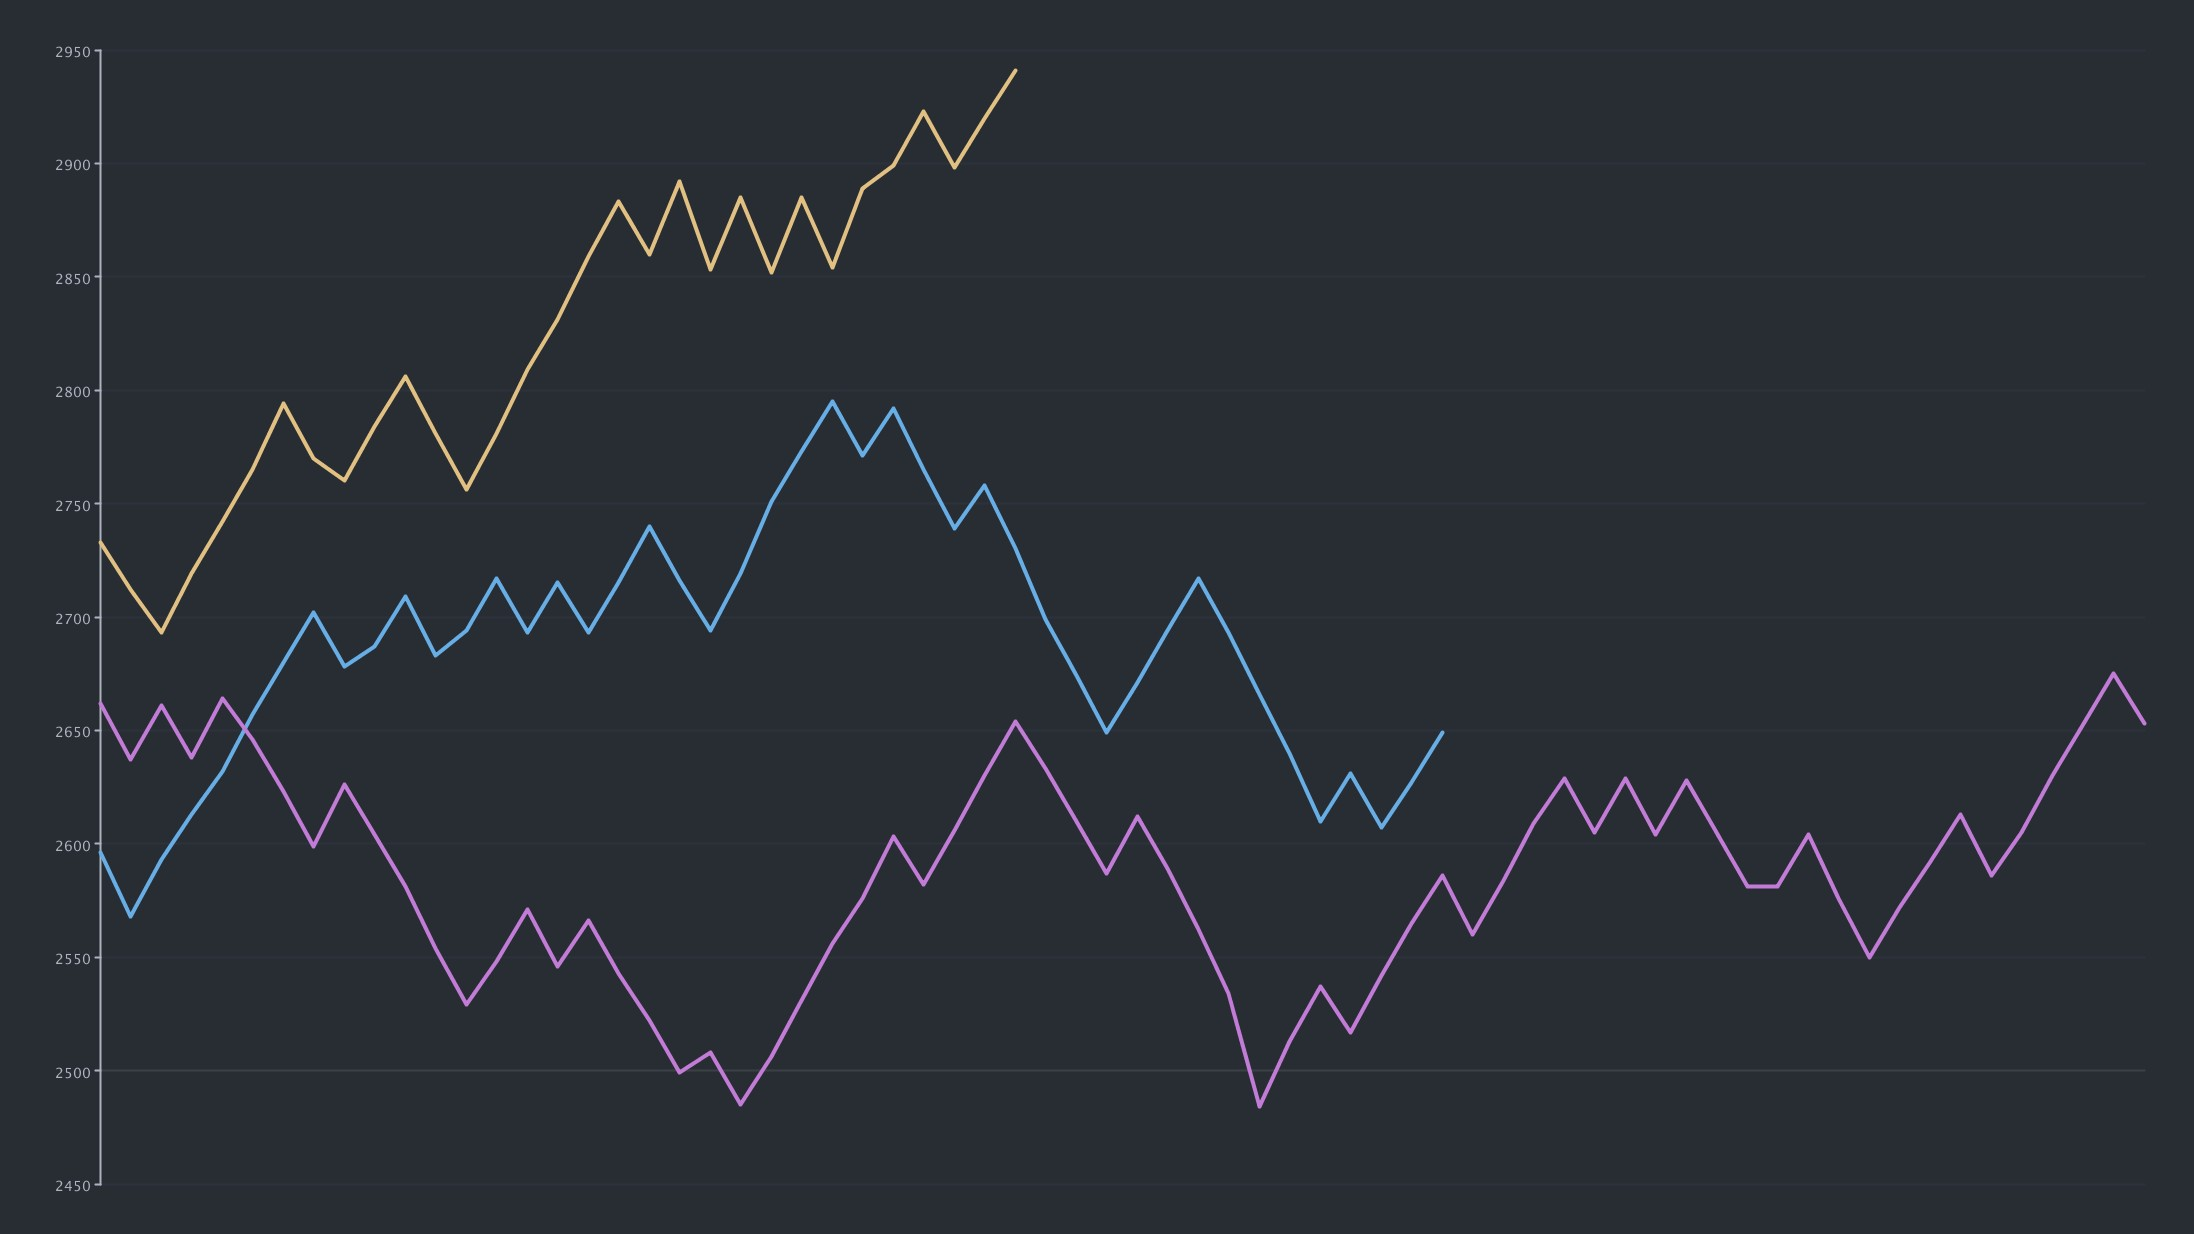
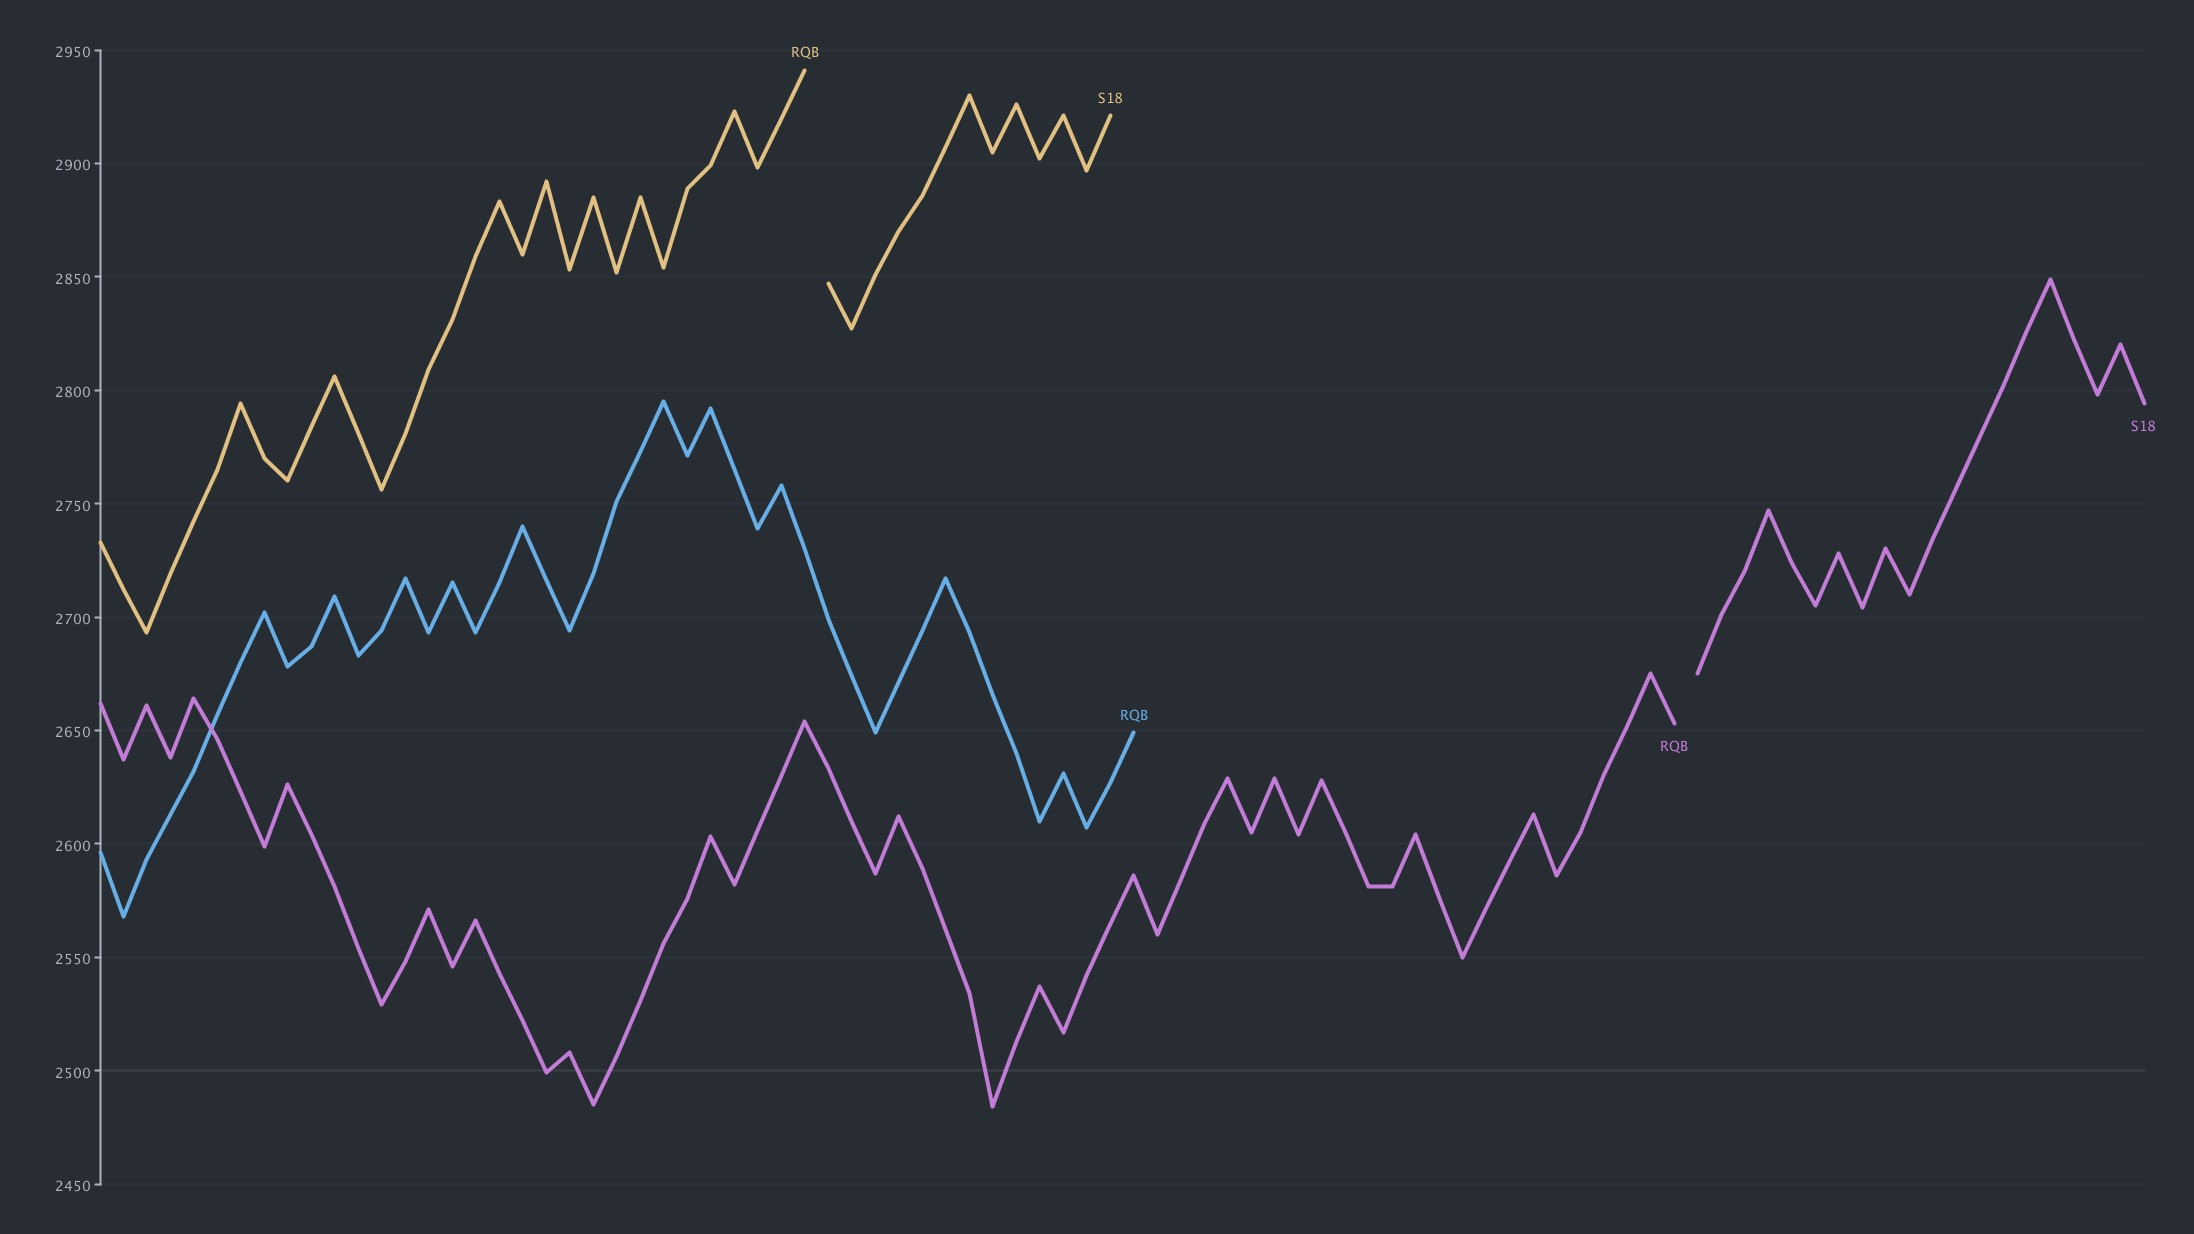
Error handling, File parsing, README changes

diff --git a/README.md b/README.md
@@ -1,4 +1,34 @@
 # overwatch-sr
 A Processing project to graph Overwatch SR.
 
+# Useage
+Each role in Overwatch has its own .txt file,found in the `/data/` folder, storing the SR of the player throughout the player's career.
+
+Currently, everytime you win, lose, or draw a competitive game, you need to record your new SR in the appropriate .txt file.
+
+## Formatting
+All SR should be recorded separately on new lines. Competitive seasons are split into their own lines on the graph. A label must be given before the SR numbers, to denote this surround the label text with `<>`. The text within can be anything, but its probably most useful to display what season the SR is referring to. You could equally have `<Season 17>` instead of `<S17>`, or even `<Solo matches>`. Labels are just used to break up the SR into separate lines. Each of the role files must have at least one label (the one at the top).
+**Example**
+```
+<S17>
+2592
+2613
+2586
+2605
+2630
+2652
+2675
+2653
+<S18>
+2675
+2701
+2720
+2747
+2724
+2705
+2728
+2704
+2730
+```
+
 ![](output.jpg)
